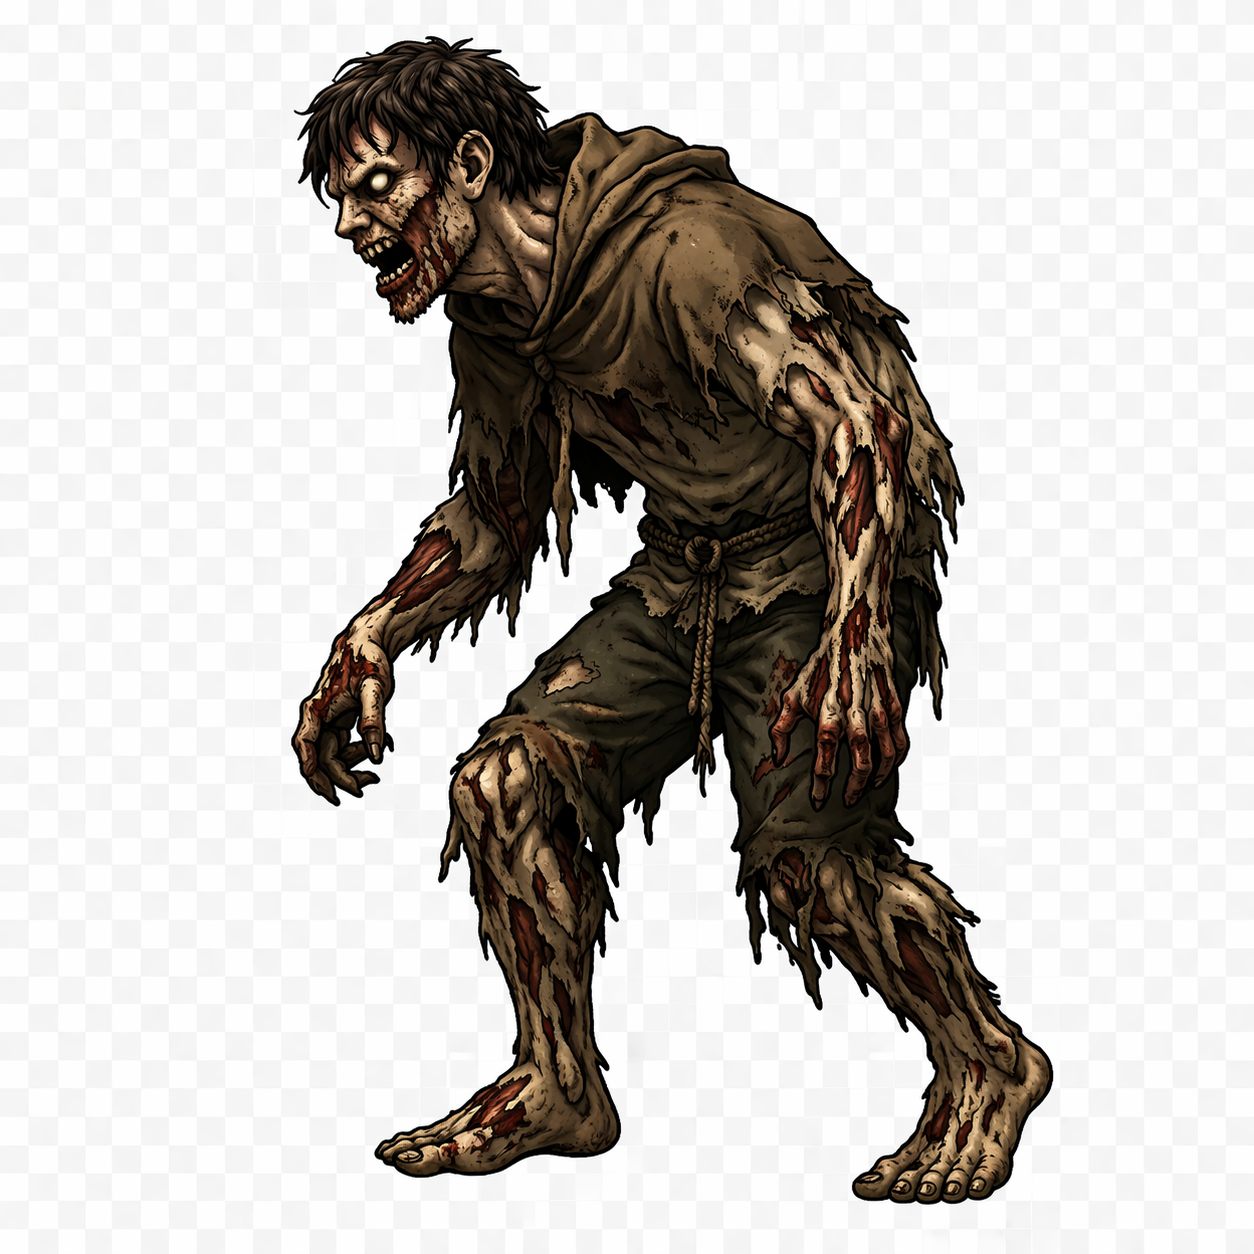
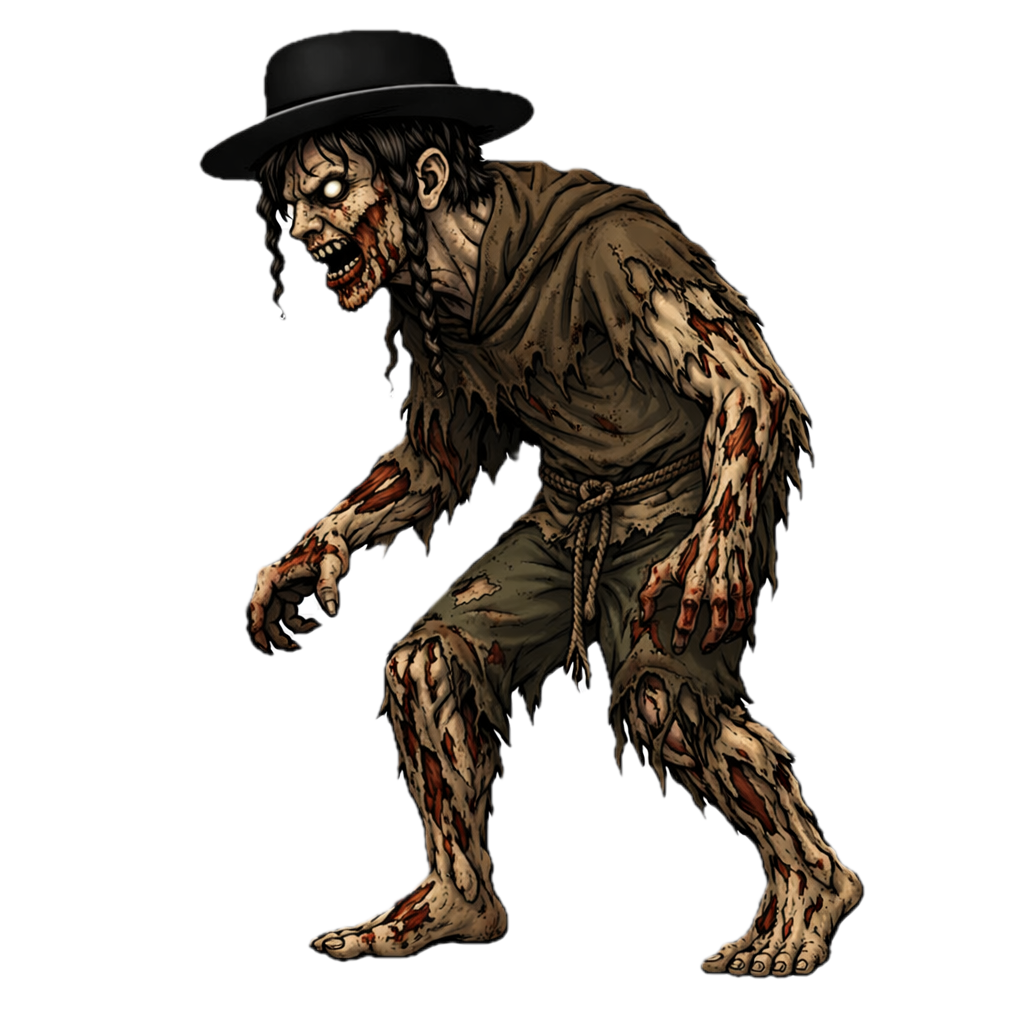
Fast-zombie has been replaced with the related picture & worked on the size of the grids

Changed region(s): [[0.1875, 0.0312, 0.8438, 0.9688]]

diff --git a/src/GameApp.java b/src/GameApp.java
@@ -14,11 +14,17 @@ import javafx.scene.layout.BackgroundPosition;
 import javafx.scene.layout.BackgroundRepeat;
 import javafx.scene.layout.BackgroundSize;
 import javafx.scene.control.Button;
+import javafx.geometry.Insets;
+import javafx.scene.Group;
+import javafx.scene.layout.Pane;
 
 public class GameApp extends Application {
 
     @Override
     public void start(Stage stage) {
+
+        final double DESIGN_WIDTH = 1600;
+        final double DESIGN_HEIGHT = 900;
 
         MenuPage menu = new MenuPage();
         SettingsPage settingsPage = new SettingsPage();
@@ -54,6 +60,12 @@ public class GameApp extends Application {
 
         StackPane root = new StackPane();
 
+        Pane gameSurface = new Pane();
+        gameSurface.setPrefSize(DESIGN_WIDTH, DESIGN_HEIGHT);
+
+        Group gameGroup = new Group(gameSurface);
+        root.getChildren().add(gameGroup);
+
         menu.getStartButton().setOnAction(e -> {
             GameBoard board = new GameBoard();
             boardRef[0] = board;
@@ -78,10 +90,9 @@ public class GameApp extends Application {
             });
 
             VBox layout = new VBox(topBar, board, gameOverLabel, restartButton);
-            board.setTranslateX(180);
-            board.setTranslateY(90);
             layout.setSpacing(10);
-            layout.setAlignment(Pos.TOP_CENTER);
+            layout.setAlignment(Pos.TOP_LEFT);
+            layout.setPadding(new Insets(120, 0, 0, 160));
 
             root.getChildren().clear();
             root.getChildren().add(layout);
@@ -134,11 +145,11 @@ public class GameApp extends Application {
 
         timer.start();
 
-        Scene scene = new Scene(root, 1080, 780);
+        Scene scene = new Scene(root, 1400, 900);
 
         stage.setTitle("Plantz Vs Zombiie Fusion");
         stage.setScene(scene);
-        stage.setFullScreen(true);
+        // stage.setFullScreen(true);
         stage.show();
     }
 }

diff --git a/src/GameBoard.java b/src/GameBoard.java
@@ -17,9 +17,9 @@ import java.util.Map;
 public class GameBoard extends GridPane {
 
     private static final int ROWS = 5;
-    private static final int COLUMNS = 9;
-    private static final int CELL_WIDTH = 145;
-    private static final int CELL_HEIGHT = 130;
+    private static final int COLUMNS = 10;
+    private static final int CELL_WIDTH = 128;
+    private static final int CELL_HEIGHT = 128;
     private List<Plant> plants = new ArrayList<>();    //plants stores all plant objects on the board
     private List<Zombie> zombies = new ArrayList<>(); //zombies stores all zombie objects on the board
     private List<Bullet> bullets = new ArrayList<>();  //bullets added to the storage

diff --git a/src/Zombie.java b/src/Zombie.java
@@ -17,8 +17,8 @@ public class Zombie {
     //constructor
     public Zombie(int row) {
         view = new ImageView(new Image("file:src/assets/zombie.png"));
-        view.setFitWidth(100);
-        view.setFitHeight(100);
+        view.setFitWidth(110);
+        view.setFitHeight(110);
         health = 100;
         moving = true;
         this.row = row;

diff --git a/src/FastZombie.java b/src/FastZombie.java
@@ -3,6 +3,7 @@ public class FastZombie extends Zombie {
     public FastZombie(int row) {
         super(row);
 
-        setSpeed(2.5); // faster than normal
+        setZombieImage("file:src/assets/fast_zombie.png");
+        setSpeed(2.5);
     }
 }
